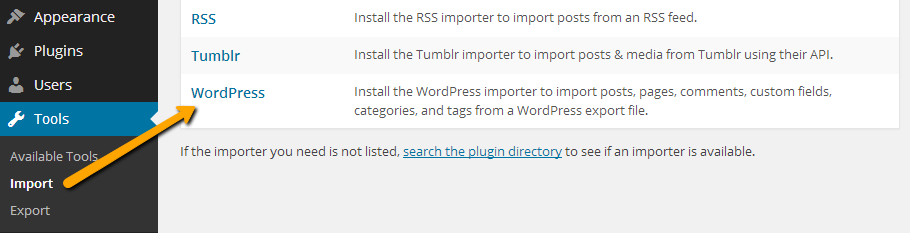
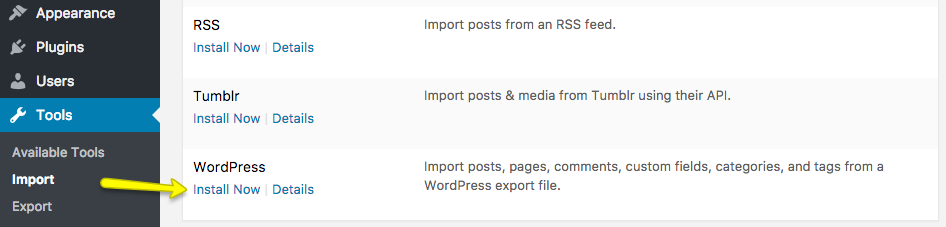
Updated XML Import section

diff --git a/index.html b/index.html
@@ -414,8 +414,8 @@
                             <h2 class="entry-title">Import Demo Contents</h2>
                             <p>You can follow one of these approaches.</p>
                             <ol>
-                                <li>One Click Demo Import ( Automatic & Recommended )</li>
-                                <li>Import XML Contents and Configure Settings Manually</li>
+                                <li><strong>One Click Demo Import</strong> ( Automatic & Recommended )</li>
+                                <li>Import XML <strong>Contents, Customizer</strong> Settings, and <strong>Widgets</strong> Manually</li>
                             </ol>
 
                             <hr/>
@@ -448,15 +448,19 @@
                             <h3>2. Import XML Contents and Configure Settings Manually</h3>
 
                             <h4>Step 1</h4>
-                            <p>Go to <strong>Dashboard &rarr; Tools &rarr; Import </strong> and click <strong>WordPress</strong> as displayed in image below.</p>
-                            <img class="light-border" src="assets/realhomes/install/4.png" alt=""/>
-                            <p>At 1st time you need to install WordPress importer plugin</p>
-                            <img class="light-border" src="assets/realhomes/install/5.png" alt=""/>
-                            <p>Once installed you need to activate the plugin and run the importer.</p>
-                            <img class="light-border" src="assets/realhomes/install/6.png" alt=""/>
+                            <p>Go to <strong>Settings &rarr; Permalinks</strong> and choose <strong>Post name</strong> from <strong>Common Settings</strong> and save the changes, As displayed in screen shot below.</p>
+                            <img class="light-border" src="assets/realhomes/install/3-1.png" alt=""/>
 
                             <h4>Step 2</h4>
-                            <p>Look for <strong>Import XML</strong> folder in unzipped package downloaded from themeforest and use the XML file within it.</p>
+                            <p>Go to <strong>Dashboard &rarr; Tools &rarr; Import </strong> and click <strong>Install Now</strong> shown under <strong>WordPress</strong> as displayed in image below.</p>
+                            <img class="light-border" src="assets/realhomes/install/4.png" alt=""/>
+
+                            <p>Once installed, you can activate the plugin and run it by clicking on Run Importer.</p>
+                            <img class="light-border" src="assets/realhomes/install/6.png" alt=""/>
+
+                            <h4>Step 3</h4>
+                            <p>Look for <strong>Import XML</strong> folder in unzipped package downloaded from themeforest and use the XML file of the relevant variation (<strong>Classic</strong> or <strong>Modern</strong>) within it.</p>
+                            <img class="light-border" src="assets/realhomes/install/classic-and-modern.png" alt=""/>
                             <img class="light-border" src="assets/realhomes/install/7.png" alt=""/>
                             <p>After importing XML file.</p>
                             <ol>
@@ -469,17 +473,30 @@
                             <p>After that is done, you will have bunch of posts, pages, properties and other contents as on the theme demo.</p>
                             <img class="light-border" src="assets/realhomes/install/9.png" alt=""/>
 
-                            <h4>Step 3</h4>
+                            <h4>Step 4</h4>
                             <p>Navigate to <strong>Appearance &rarr; Menus</strong> and use the Already Imported Menu from XML and assign it to theme location "<strong>Main Menu</strong>" from <strong>Menu Settings</strong> section below menu. After that save the menu. As pointed in screenshot below.</p>
                             <img class="light-border" src="assets/realhomes/install/10.png" alt=""/>
 
-                            <h3>Step 4</h3>
-                            <p>To configure reading settings you need to visit <strong>Dashboard &rarr; Settings &rarr; Reading</strong> and choose that front page displays as static page. Then select Home as Front Page and News as Posts Page. As, displayed in screen shot below.</p>
+                            <h3>Step 5</h3>
+                            <p>To configure reading settings you need to visit <strong>Dashboard &rarr; Settings &rarr; Reading</strong> and choose that front page displays as static page. Then select <strong>Home</strong> as <strong>Front Page</strong> and <strong>News</strong> as <strong>Posts Page</strong> (displayed in the following screenshot).</p>
                             <img class="light-border" src="assets/realhomes/install/11.png" alt=""/>
 
-                            <h4>Step 5</h4>
-                            <p> To configure permalinks settings visit <strong>Dashboard &rarr; Settings &rarr; Permalinks</strong> and configure then save it as displayed in image below.</p>
-                            <img class="light-border" src="assets/realhomes/install/3-1.png" alt=""/>
+                            <h4>Step 6</h4>
+                            <p> To import Customizer settings you have to install <strong><a href="https://wordpress.org/plugins/customizer-export-import/" target="_blank">Customizer Export/Import Plugin</a></strong>.
+                                <br/><br/>
+                                Once the plugin is installed and activate then navigate to <strong>Dashboard</strong> &rarr; <strong>Appearance</strong> &rarr; <strong>Customize</strong> &rarr; <strong>Export/Import</strong> and then select the <strong>customizer.dat</strong> file for the relevant design variation (<strong>Classic</strong> or <strong>Modern</strong>). </p>
+                            <img class="light-border" src="assets/realhomes/install/import-customizer-settings.png" alt=""/>
+                            <p>Upon successful import the Customizer will be refreshed.</p>
+
+                            <h4>Step 7</h4>
+                            <p> Now you can import widgets too. In order to do that, kindly install <strong><a href="https://wordpress.org/plugins/widget-importer-exporter/" target="_blank">Widget Importer & Exporter</a></strong>.
+                                <br/><br/>
+                                After successful installation and activation navigate to <strong>Dashboard</strong> &rarr; <strong>Tools</strong> &rarr; <strong>Widget Importer & Exporter</strong> and then select the <strong>widgets.wie</strong> file for the relevant design variation (<strong>Classic</strong> or <strong>Modern</strong>). </p>
+                            <img class="light-border" src="assets/realhomes/install/import-widgets.png" alt=""/>
+                            <p>Upon successful import the page will be reloaded and it will display the widgets which are imported.</p>
+
+                            <p>Visit your site and you will find your site working like the theme demo.<br>
+                                <em>In case of any problem, Get in touch with our support team using our <a href="https://support.inspirythemes.com/ask-question/" target="_blank">support site</a>.</em></p>
                             <hr/>
 
                         </div>
